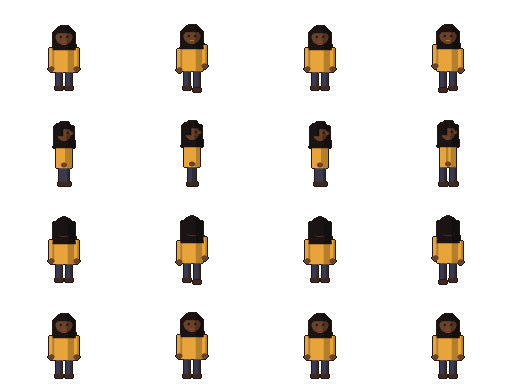
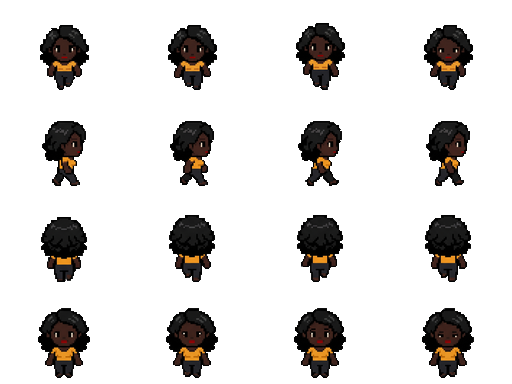
Caça Folclore: 26 NPCs nomeados refeitos com arte do Gemini
Recorte automático das folhas 4x4 (cf_npc_gemini.py) com fundo transparente.

Claude-Session: https://claude.ai/code/session_01888Ni9HaGKyGBxwy8sXU5w

diff --git a/ferramentas/caca-folclore/cf_npc_gemini.py b/ferramentas/caca-folclore/cf_npc_gemini.py
@@ -1,0 +1,54 @@
+"""Folha 4x4 do Gemini -> sheet NPC 512x384 (celulas 128x96, ancora (64,90)).
+uso: python3 -I cf_npc_gemini.py <img> <saida.png> [altura_alvo=66]
+Linhas: baixo, direita, cima, parado. Fundo claro ligado a borda (linhas finas de moldura tratadas como fundo);
+cada frame = maior componente cujo centroide cai na celula."""
+import sys, numpy as np
+from PIL import Image
+from scipy import ndimage as ndi
+src, out = sys.argv[1], sys.argv[2]
+ALVO = int(sys.argv[3]) if len(sys.argv)>3 else 66
+im = Image.open(src).convert('RGB'); W,H = im.size
+a = np.asarray(im).astype(int); mx=a.max(2); mn=a.min(2)
+claro = (mn>195)&((mx-mn)<35)
+escuro = mx<120
+grosso = ndi.binary_opening(escuro, structure=np.ones((13,13)))
+fino = escuro & ~ndi.binary_dilation(grosso, iterations=2)
+linhas = ndi.binary_opening(fino,structure=np.ones((1,220)))|ndi.binary_opening(fino,structure=np.ones((220,1)))
+import os
+if not os.environ.get('SEMLINHAS'):
+    linhas |= ndi.binary_opening(escuro,structure=np.ones((int(.2*H),3)))|ndi.binary_opening(escuro,structure=np.ones((3,int(.2*W))))
+linhas = ndi.binary_dilation(linhas, iterations=5)
+# linhas cinza claras tambem contam como claro
+c2 = claro|linhas
+lab,n = ndi.label(c2)
+borda = set(np.unique(np.concatenate([lab[0],lab[-1],lab[:,0],lab[:,-1]])))-{0}
+sz = ndi.sum(c2,lab,range(1,n+1))
+ids=[i for i in range(1,n+1) if i in borda]
+bg = np.isin(lab,ids)
+fg = (~bg)&(~linhas)
+fg = ndi.binary_opening(fg, structure=np.ones((5,5)))
+cw,ch = W/4,H/4
+agr = ndi.binary_dilation(fg, iterations=8)
+l,k = ndi.label(agr)
+cel = {}
+for i in range(1,k+1):
+    m = (l==i)&fg
+    ar = m.sum()
+    if ar < 800: continue
+    ys,xs = np.where(m)
+    r,c = min(3,int(ys.mean()//ch)), min(3,int(xs.mean()//cw))
+    if (r,c) not in cel or cel[(r,c)][0]<ar: cel[(r,c)]=(ar,m,(xs.min(),ys.min(),xs.max()+1,ys.max()+1))
+faltam=[(r,c) for r in range(4) for c in range(4) if (r,c) not in cel]
+if faltam: print('FALTAM',faltam,file=sys.stderr)
+hs=[v[2][3]-v[2][1] for v in cel.values()]; med=float(np.median(hs)); esc=ALVO/med
+a8=np.asarray(im)
+sheet=Image.new('RGBA',(512,384),(0,0,0,0))
+for (r,c),(ar,m,b) in cel.items():
+    x0,y0,x1,y1=b
+    s=Image.fromarray(np.dstack([a8[y0:y1,x0:x1],(m[y0:y1,x0:x1]*255).astype(np.uint8)]))
+    nw,nh=max(1,round(s.width*esc)),max(1,round(s.height*esc))
+    s=s.resize((nw,nh),Image.LANCZOS)
+    arr=np.asarray(s).copy(); arr[...,3]=np.where(arr[...,3]>127,255,0); s=Image.fromarray(arr)
+    if nw>128 or nh>96: print('AVISO cel',r,c,nw,nh,file=sys.stderr)
+    sheet.alpha_composite(s,(max(0,c*128+64-nw//2),max(0,r*96+90-nh)))
+sheet.save(out); print('ok',out,'escala',round(esc,3))
